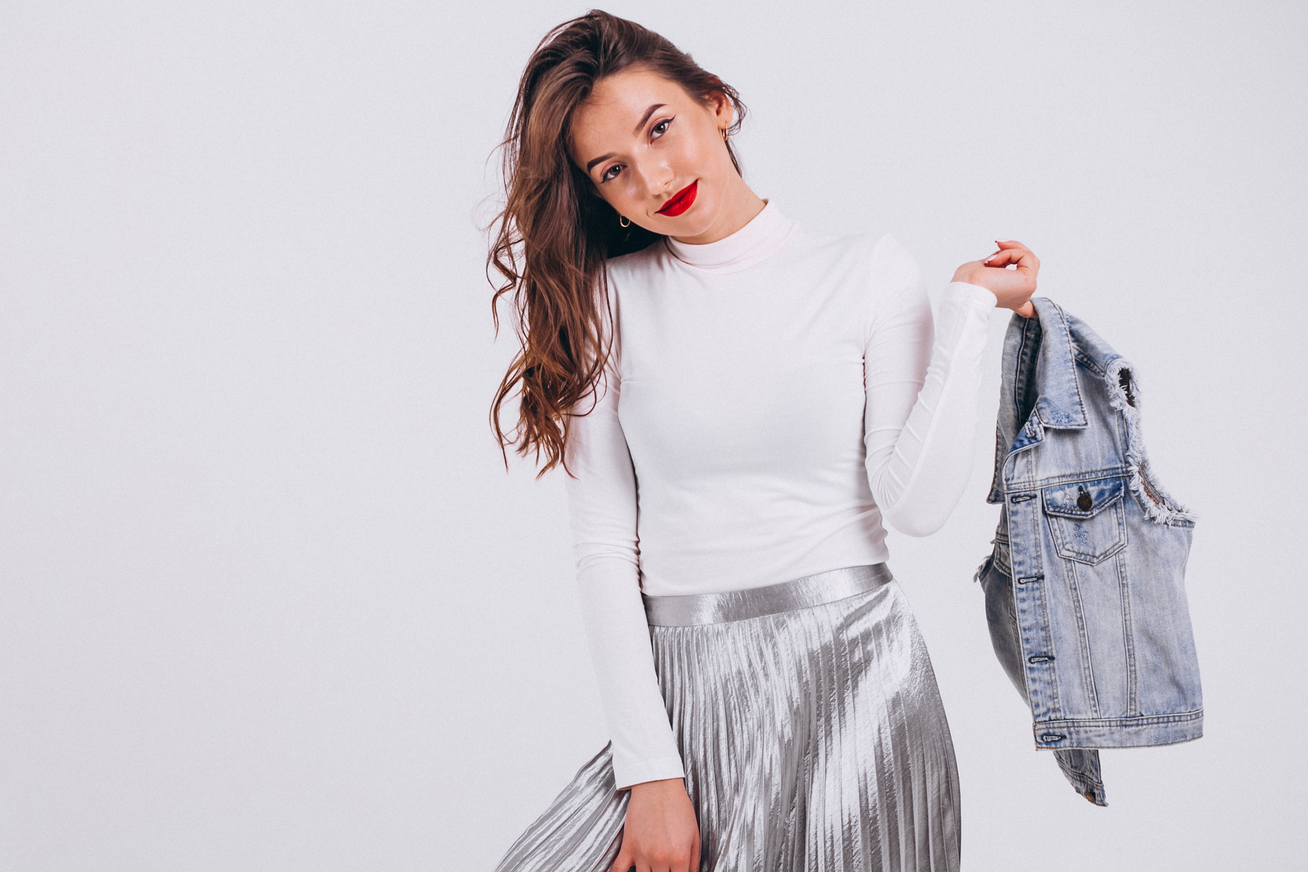
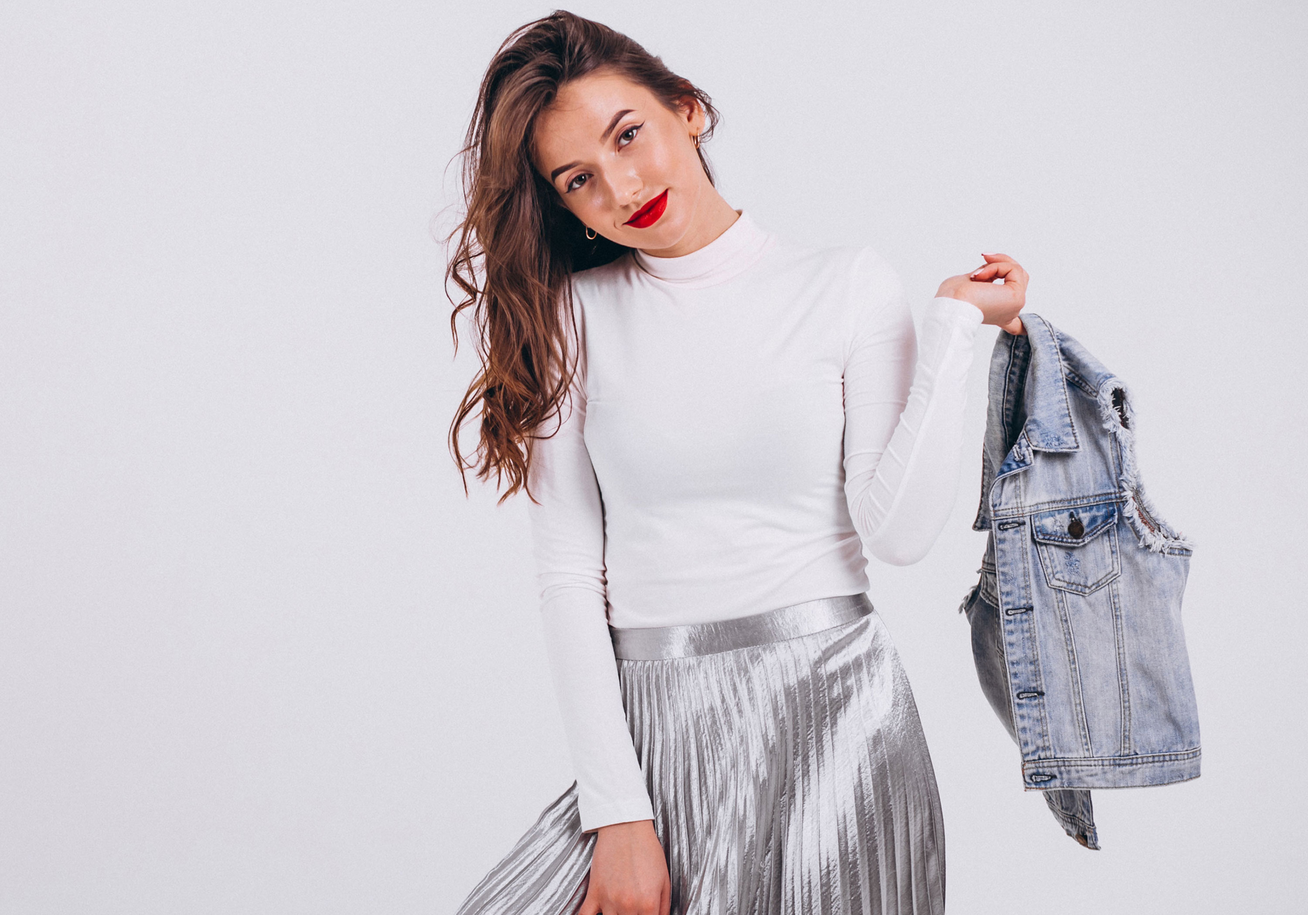
seventh commit

Changed region(s): [[0.341, 0.0, 0.93, 1.0]]

diff --git a/vite-project/src/compontnts/Arrival/Arrival.jsx b/vite-project/src/compontnts/Arrival/Arrival.jsx
@@ -18,30 +18,47 @@ function Arrival() {
                   <h2 className="main_hd">
                     New arrival collection
                   </h2>
-                  <p className="desc">Be the first to wear what’s new. 
-                    Explore the latest arrivals designed 
-                    for standout looks and everyday 
-                    comfort.</p>
+                  <p className="desc">Step into the season in style with our latest collection. From timeless essentials to bold statement pieces, our new arrivals are designed to refresh your wardrobe with modern silhouettes, rich textures, and must-have colors. <br/>Whether you're dressing up or keeping it casual, find the perfect look to match your mood and elevate every moment.</p>
                     <Link to="/Shop" className="shop_btn">Shop Now <i className="fa fa-bag-shopping"></i></Link>
                 </div>
 
 
-                {items.slice(-3).map((item) => (
-                <div className="col-xl-3 col-lg-3 col-md-3 col-sm-12 col-lg-12">             
+
+                {/* <div className="col-xl-3 col-lg-3 col-md-3 col-sm-12 col-lg-12">             
               
-                    <div className="arrival_pro">
-                      <img src={item.src} className="img-fluid"/>
-                      <div className="arrival_pro_wrap d-flex justify-content-between">
-                      <div style={{width:'90%'}}>
-                          <h3>{item.name}</h3>
-                          <h4>${item.price}</h4>
-                          </div>                       
-                          <Link to={`/product/${item.id}`}><span><i className="fa fa-bag-shopping"></i></span></Link>
-                       
-                      </div>                    
-                    </div>     
-                               
-                </div>
+              <div className="arrival_pro">
+                <img src={item.src} className="img-fluid"/>
+                <div className="arrival_pro_wrap d-flex justify-content-between">
+                <div style={{width:'90%'}}>
+                    <h3>{item.name}</h3>
+                    <h4>${item.price}</h4>
+                    </div>                       
+                    <Link to={`/product/${item.id}`}><span><i className="fa fa-bag-shopping"></i></span></Link>
+                 
+                </div>                    
+              </div>     
+                         
+          </div> */}
+                {items.slice(-3).map((item) => (
+                    <div className="col-md-3 col-sm-6" key={item.id}>
+
+                    <div className="product-card">
+                      <img src={item.src} alt={item.name} />
+    
+                      <div className="product-overlay">
+                        {/* <div className="wishlist-icon"> <i className="far fa-heart"></i></div> */}
+                        <div className="wishlist-icon" onClick={() => dispatch(addToWishlist(item))}>
+                          <i className="far fa-heart"></i>
+                        </div>
+                        <Link to={`/product/${item.id}`} className="shop_btn">Shop Now <i className="fa fa-bag-shopping"></i></Link>
+                      </div>
+                    </div>
+                    <div className="product-info">
+                      <h6>{item.name}</h6>
+                      <p>${item.price}</p>
+                    </div>
+    
+                  </div>
 
                 ))}
 

diff --git a/vite-project/src/compontnts/ProductCard/ProductImage.js b/vite-project/src/compontnts/ProductCard/ProductImage.js
@@ -9,6 +9,7 @@ const products = [
       quantity: 1,
       category: 'cat-men',
       subcategory: 'shirt',
+      description: 'Navy blue, cotton, printed formal shirt by STOP. Expertly tailored from light cotton with a minimal print, this slim-fit shirt features a sharp cut-away collar, buttoned front, structured chest pocket, and full set-in sleeves, ensuring confidence and ease throughout your workday.',
      },
 
      { id: 2, 
@@ -21,6 +22,7 @@ const products = [
         quantity: 1,
         category: 'cat-women',
         subcategory: 'dress',
+        description: 'Experience elegance and comfort with our womens polyester dress, designed for party occasions. With a sleek, sophisticated solid pattern, this premium dress combines durability and luxury. Perfect for brunch, dinners, or upscale events, it promises style and unmatched comfort. Make a statement with this exquisite piece.',
        },
 
        { id: 3, 
@@ -33,6 +35,7 @@ const products = [
         quantity: 1,
         category: 'cat-men',
         subcategory: 'tshirt',
+        description: 'Elevate your casual style with this crisp white Fratini T-shirt. Crafted from a soft blend of fabrics, it offers both comfort and sophistication. The subtle navy and white trim at the collar adds a touch of understated elegance. A perfect choice for weekend outings or relaxed gatherings.',
        },
         
        { id: 4, 
@@ -45,6 +48,7 @@ const products = [
         quantity: 1,
         category: 'accessory',
         subcategory: 'bag',
+        description: 'Beige textured solid tote bag, with cut work detail 1 main compartment, has a zip closure, 1 external pocket,With a detachable sling strap',
        },
 
        { id: 5, 
@@ -57,6 +61,7 @@ const products = [
         quantity: 1,
         category: 'cat-men',
         subcategory: 'jeans',
+        description: 'Blue dark wash 5-pocket low-rise jeans, clean look, light fade, has a button and zip closure, and waistband with belt loops.',
        },
 
        { id: 6, 
@@ -69,6 +74,7 @@ const products = [
         quantity: 1,
         category: 'accessory',
         subcategory: 'belt',
+        description: 'You can use these belts all year round. It’s comfortable to wear and adds a nice accent to your outfits! They can be matched for dress, baggy T-shirts, sweaters, long coats, long shirt and so on. An exquisite accessory for your daily wear and important occasions.',
        },
 
        { id: 7, 
@@ -81,6 +87,7 @@ const products = [
         quantity: 1,
         category: 'cat-men',
         subcategory: 'shirt',
+        description: 'Showcase your refined sartorial taste in this Black Textured shirt. Tailored in Slim Fit , this shirt features a Regular Collar , Full Sleeves , and is crafted from exquisite 60% Cotton and 40% Polyester .',
        },
 
        { id: 8, 
@@ -93,6 +100,7 @@ const products = [
         quantity: 1,
         category: 'cat-women',
         subcategory: 'tshirt',
+        description: 'Stay cozy and stylish with this Classic Navy Blue Sweatshirt, designed for everyday comfort and versatility. Crafted from soft, breathable cotton-blend fabric, it features a relaxed fit, round neckline, and full sleeves that make it perfect for layering or wearing on its own. The minimalistic design adds a touch of effortless chic, making it an essential wardrobe staple.',
        },
   ];
   

diff --git a/vite-project/src/compontnts/Header/Header.jsx b/vite-project/src/compontnts/Header/Header.jsx
@@ -2,17 +2,24 @@ import React, { useEffect, useState } from 'react'
 import { useDispatch, useSelector } from 'react-redux';
 import { Link, useNavigate } from 'react-router-dom'
 import Logo from "../../assets/images/logo.png"
+import { setItems } from '../../Redux/cartSlice';
 
 
 function Header() {
   // Search Product
+ 
   const dispatch = useDispatch();
   const navigate = useNavigate();
   const [input, setInput] = useState('');
 
-  const items = useSelector((state) => state.allCart.items);
 
   const products = useSelector(state => state.allCart.items);
+  useEffect(() => {
+    if (products.length === 0) {
+      dispatch(setItems(products));
+    }
+  }, []);
+
   const results = products.filter(p =>
     p.name.toLowerCase().includes(input.toLowerCase())
   );
@@ -20,12 +27,11 @@ function Header() {
   const handleChange = (e) => {
     const value = e.target.value;
     setInput(value);
-    dispatch(setSearchQuery(value));
   };
 
   const handleClick = (id) => {
     navigate(`/product/${id}`);
-    setInput(''); // clear input after navigation
+    setInput(''); 
   };
 
   const wishlistCount = useSelector((state) => state.allCart.wishlist.length);

diff --git a/vite-project/src/compontnts/ProductPage/ProductInfo.jsx b/vite-project/src/compontnts/ProductPage/ProductInfo.jsx
@@ -17,13 +17,13 @@ function ProductInfo() {
   };
 
   const { productId } = useParams();
-  const { id } = useParams(); // Search
+
   const dispatch = useDispatch();
   
+
   const product = useSelector((state) =>
-    state.allCart.items.find((item) => item.id === parseInt(productId) || (p => p.id === parseInt(id)))
-    
-  );
+  state.allCart.items.find((item) => item.id === parseInt(productId))
+);
 
 
   const [selectedSize, setSelectedSize] = useState('');
@@ -157,7 +157,7 @@ function ProductInfo() {
 
                   <h5 className="main_hd">Description</h5>
                   <p className="desc ">
-                    Navy blue, cotton, printed formal shirt by STOP. Expertly tailored from light cotton with a minimal print, this slim-fit shirt features a sharp cut-away collar, buttoned front, structured chest pocket, and full set-in sleeves, ensuring confidence and ease throughout your workday.
+                   {product.description}
                   </p>
                 </div>
               </div>

diff --git a/vite-project/src/Redux/cartSlice.jsx b/vite-project/src/Redux/cartSlice.jsx
@@ -17,7 +17,12 @@ export const cartSlice = createSlice({
     name: "cart",
     initialState,
     reducers: {
-     
+
+      // search products
+
+      setItems: (state, action) => {
+        state.items = action.payload;
+      },   
 
       //wishlist page
 
@@ -26,6 +31,7 @@ export const cartSlice = createSlice({
         if (!existing) {
           state.wishlist.push(action.payload);
           localStorage.setItem('wishlist', JSON.stringify(state.wishlist));
+          alert('Product added to wishlist');
         }
       },
       
@@ -128,5 +134,5 @@ export const cartSlice = createSlice({
     
 });
 
-export const { addItemToCart, addToCart, getCartTotal, removeItem, increaseItemQuantity, decreaseItemQuantity, clearCart, addToWishlist, removeFromWishlist } = cartSlice.actions;
+export const { addItemToCart, addToCart, getCartTotal, removeItem, increaseItemQuantity, decreaseItemQuantity, clearCart, addToWishlist, removeFromWishlist, setItems } = cartSlice.actions;
 export default cartSlice.reducer;

diff --git a/vite-project/src/compontnts/ProductCard/ProductCard.jsx b/vite-project/src/compontnts/ProductCard/ProductCard.jsx
@@ -31,7 +31,7 @@ function ProductCard() {
                     <div className="wishlist-icon" onClick={() => dispatch(addToWishlist(item))}>
                       <i className="far fa-heart"></i>
                     </div>
-                    <Link to={`/product/${item.id}`} className="shop_btn">Add To Cart <i className="fa fa-bag-shopping"></i></Link>
+                    <Link to={`/product/${item.id}`} className="shop_btn">Shop Now <i className="fa fa-bag-shopping"></i></Link>
                   </div>
                 </div>
                 <div className="product-info">

diff --git a/vite-project/src/pages/Home/Home.jsx b/vite-project/src/pages/Home/Home.jsx
@@ -1,9 +1,9 @@
 import React from 'react'
+import Layout from '../../compontnts/Layout/Layout'
 import Arrival from '../../compontnts/Arrival/Arrival'
 import Banner from '../../compontnts/Banner/Banner'
 import Category from '../../compontnts/Category/Category'
 import HeroBan from '../../compontnts/HeroBan/HeroBan'
-import Layout from '../../compontnts/Layout/Layout'
 import ProductCard from '../../compontnts/ProductCard/ProductCard'
 import PromoBan from '../../compontnts/PromoBan/PromoBan'
 import Service from '../../compontnts/Service/Service'

diff --git a/vite-project/src/assets/css/style.css b/vite-project/src/assets/css/style.css
@@ -435,6 +435,15 @@ padding: 47px 0 0 30px;
   opacity: 1;
 }
 
+.category-card:hover {
+  width: 490px;
+}
+
+.category-card:hover .content {
+  width: 240px;
+  opacity: 1;
+}
+
 .category-card.active .image img {
   /* transform: translateX(-20px); */
 }
@@ -1490,6 +1499,7 @@ color: #C7C7C7;
   max-height: 300px;
   overflow-y: auto;
   margin-top: 44px;
+  z-index: 1;
 }
 
 .search-results > div{

diff --git a/vite-project/src/compontnts/Category/Category.jsx b/vite-project/src/compontnts/Category/Category.jsx
@@ -60,6 +60,8 @@ function Category() {
                 key={index}
                 onMouseEnter={() => setActiveCard(index)}
               >
+              {/* <div className="category-card" key={index}> */}
+                
                 <div className="image">
                   <img src={cat.img} alt={cat.title} />
                   <div className="label">

diff --git a/vite-project/src/App.jsx b/vite-project/src/App.jsx
@@ -15,6 +15,7 @@ function App() {
     <Routes>
       <Route path="/" element={<Home />} />
       <Route path="/product/:productId" element={<ProductInfo/>} />
+
       <Route path="/Shop" element={<Shop />} />
       <Route path="/Shop/:categoryId" element={<Shop />} />
       <Route path="/Cart" element={<Cart />} />

diff --git a/vite-project/src/compontnts/Layout/Layout.jsx b/vite-project/src/compontnts/Layout/Layout.jsx
@@ -2,7 +2,7 @@ import React, { useEffect } from 'react'
 import { useDispatch } from 'react-redux';
 import Footer from '../Footer/Footer'
 import Header from '../Header/Header'
-import products from '../ProductCard/ProductImage';
+
 
 function Layout({children}) {
  
